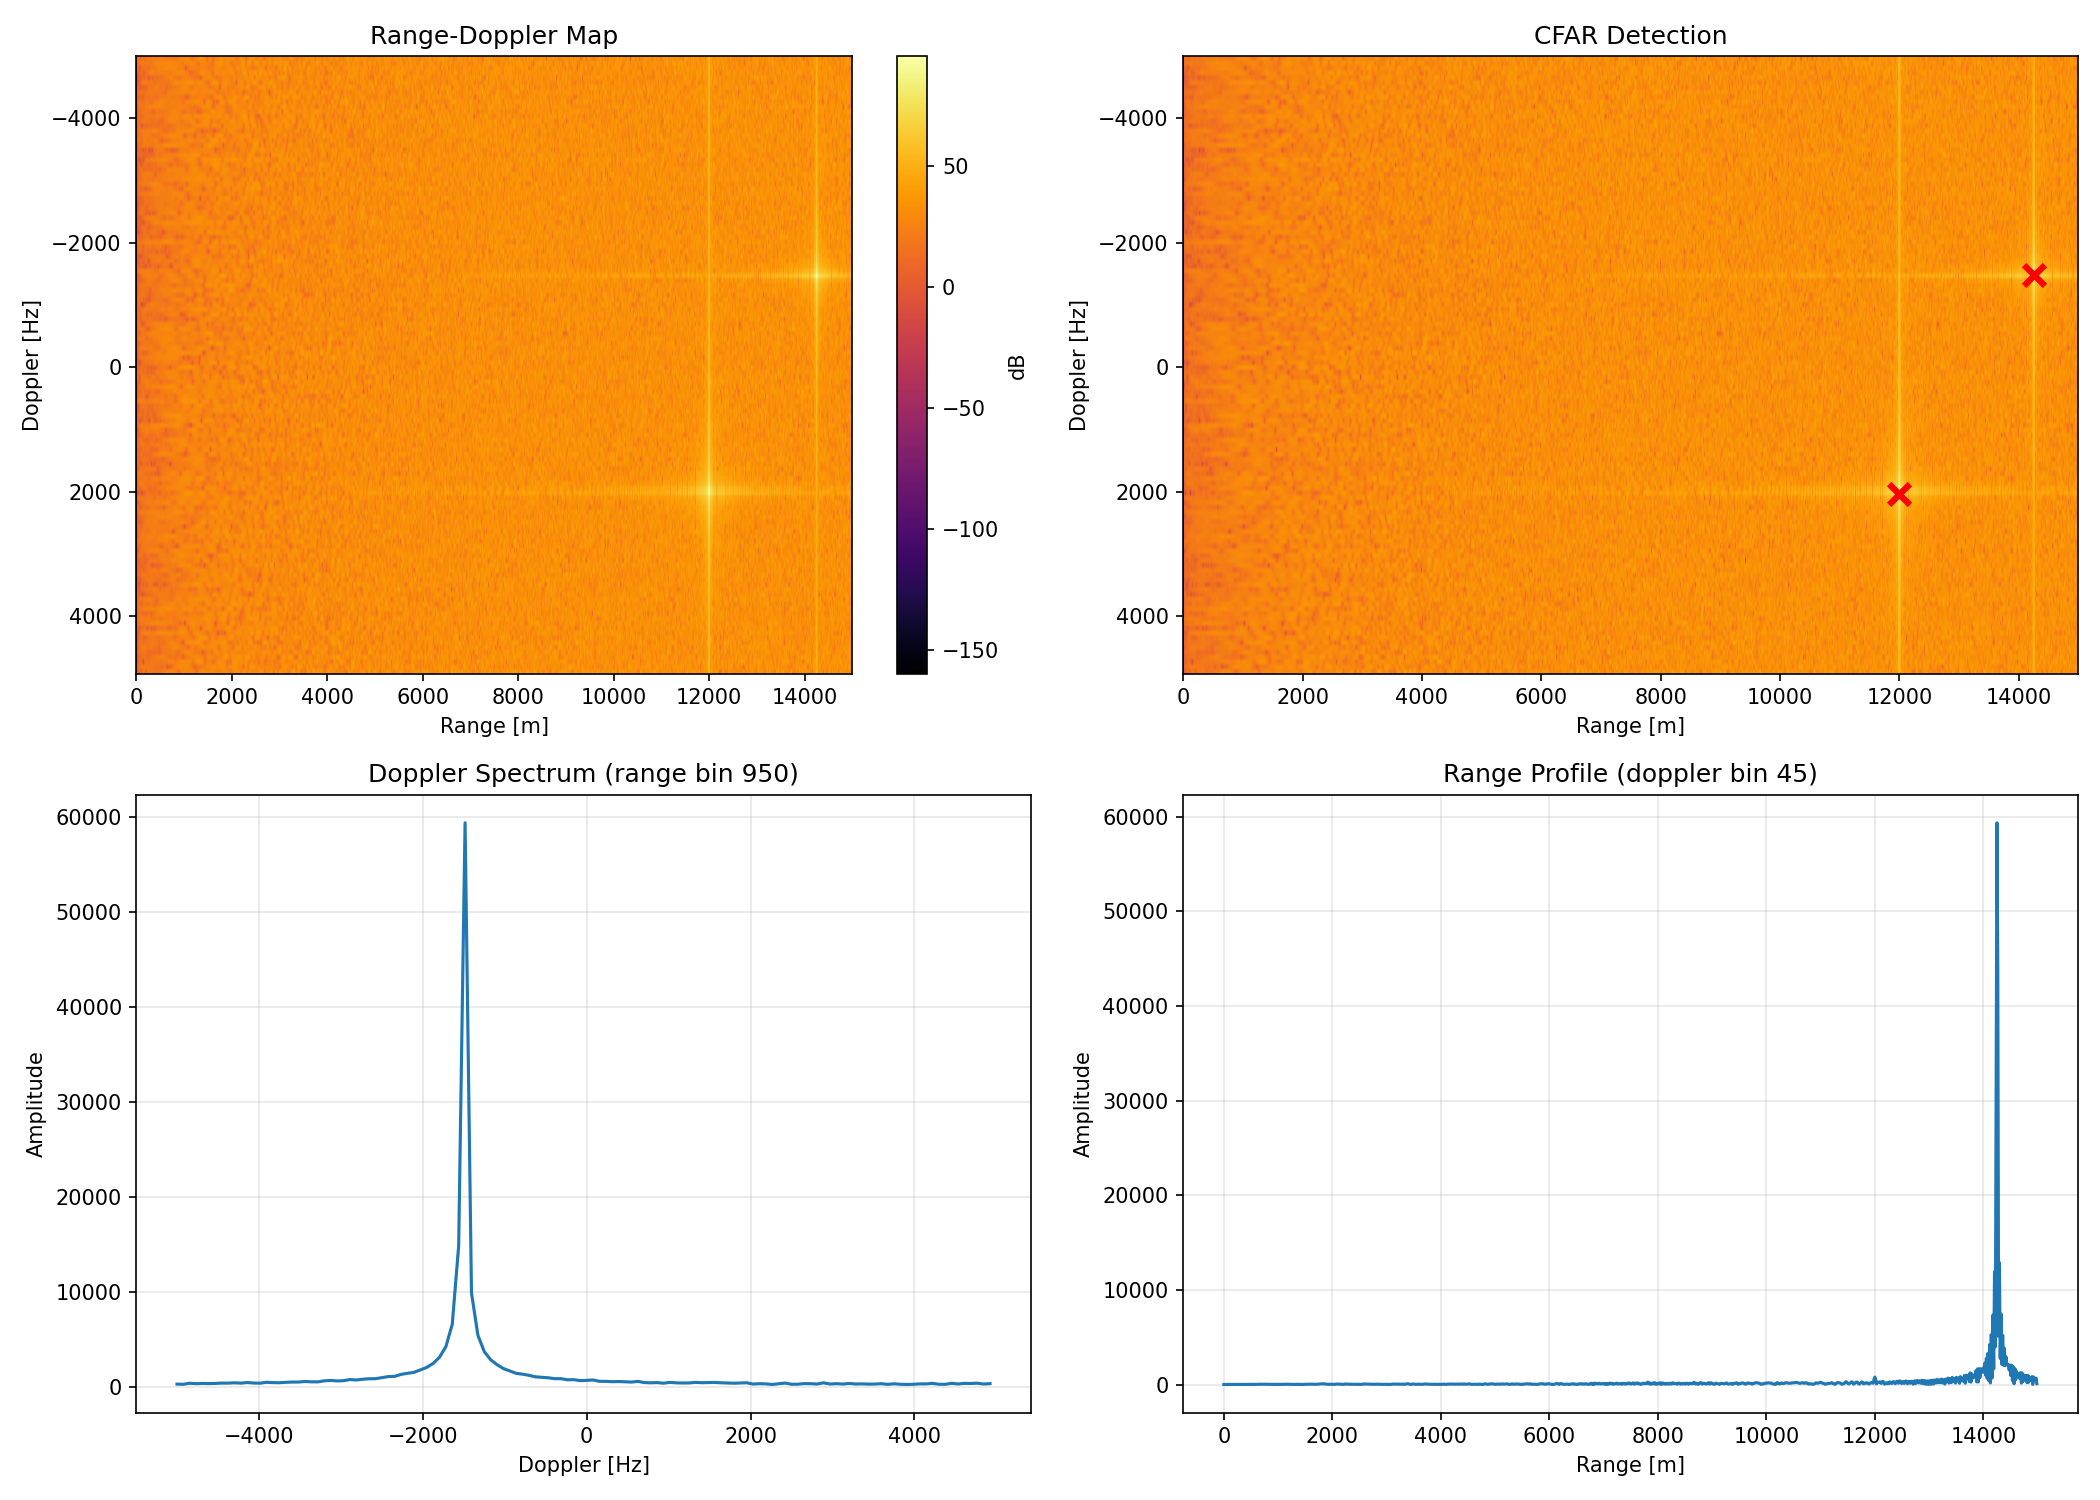
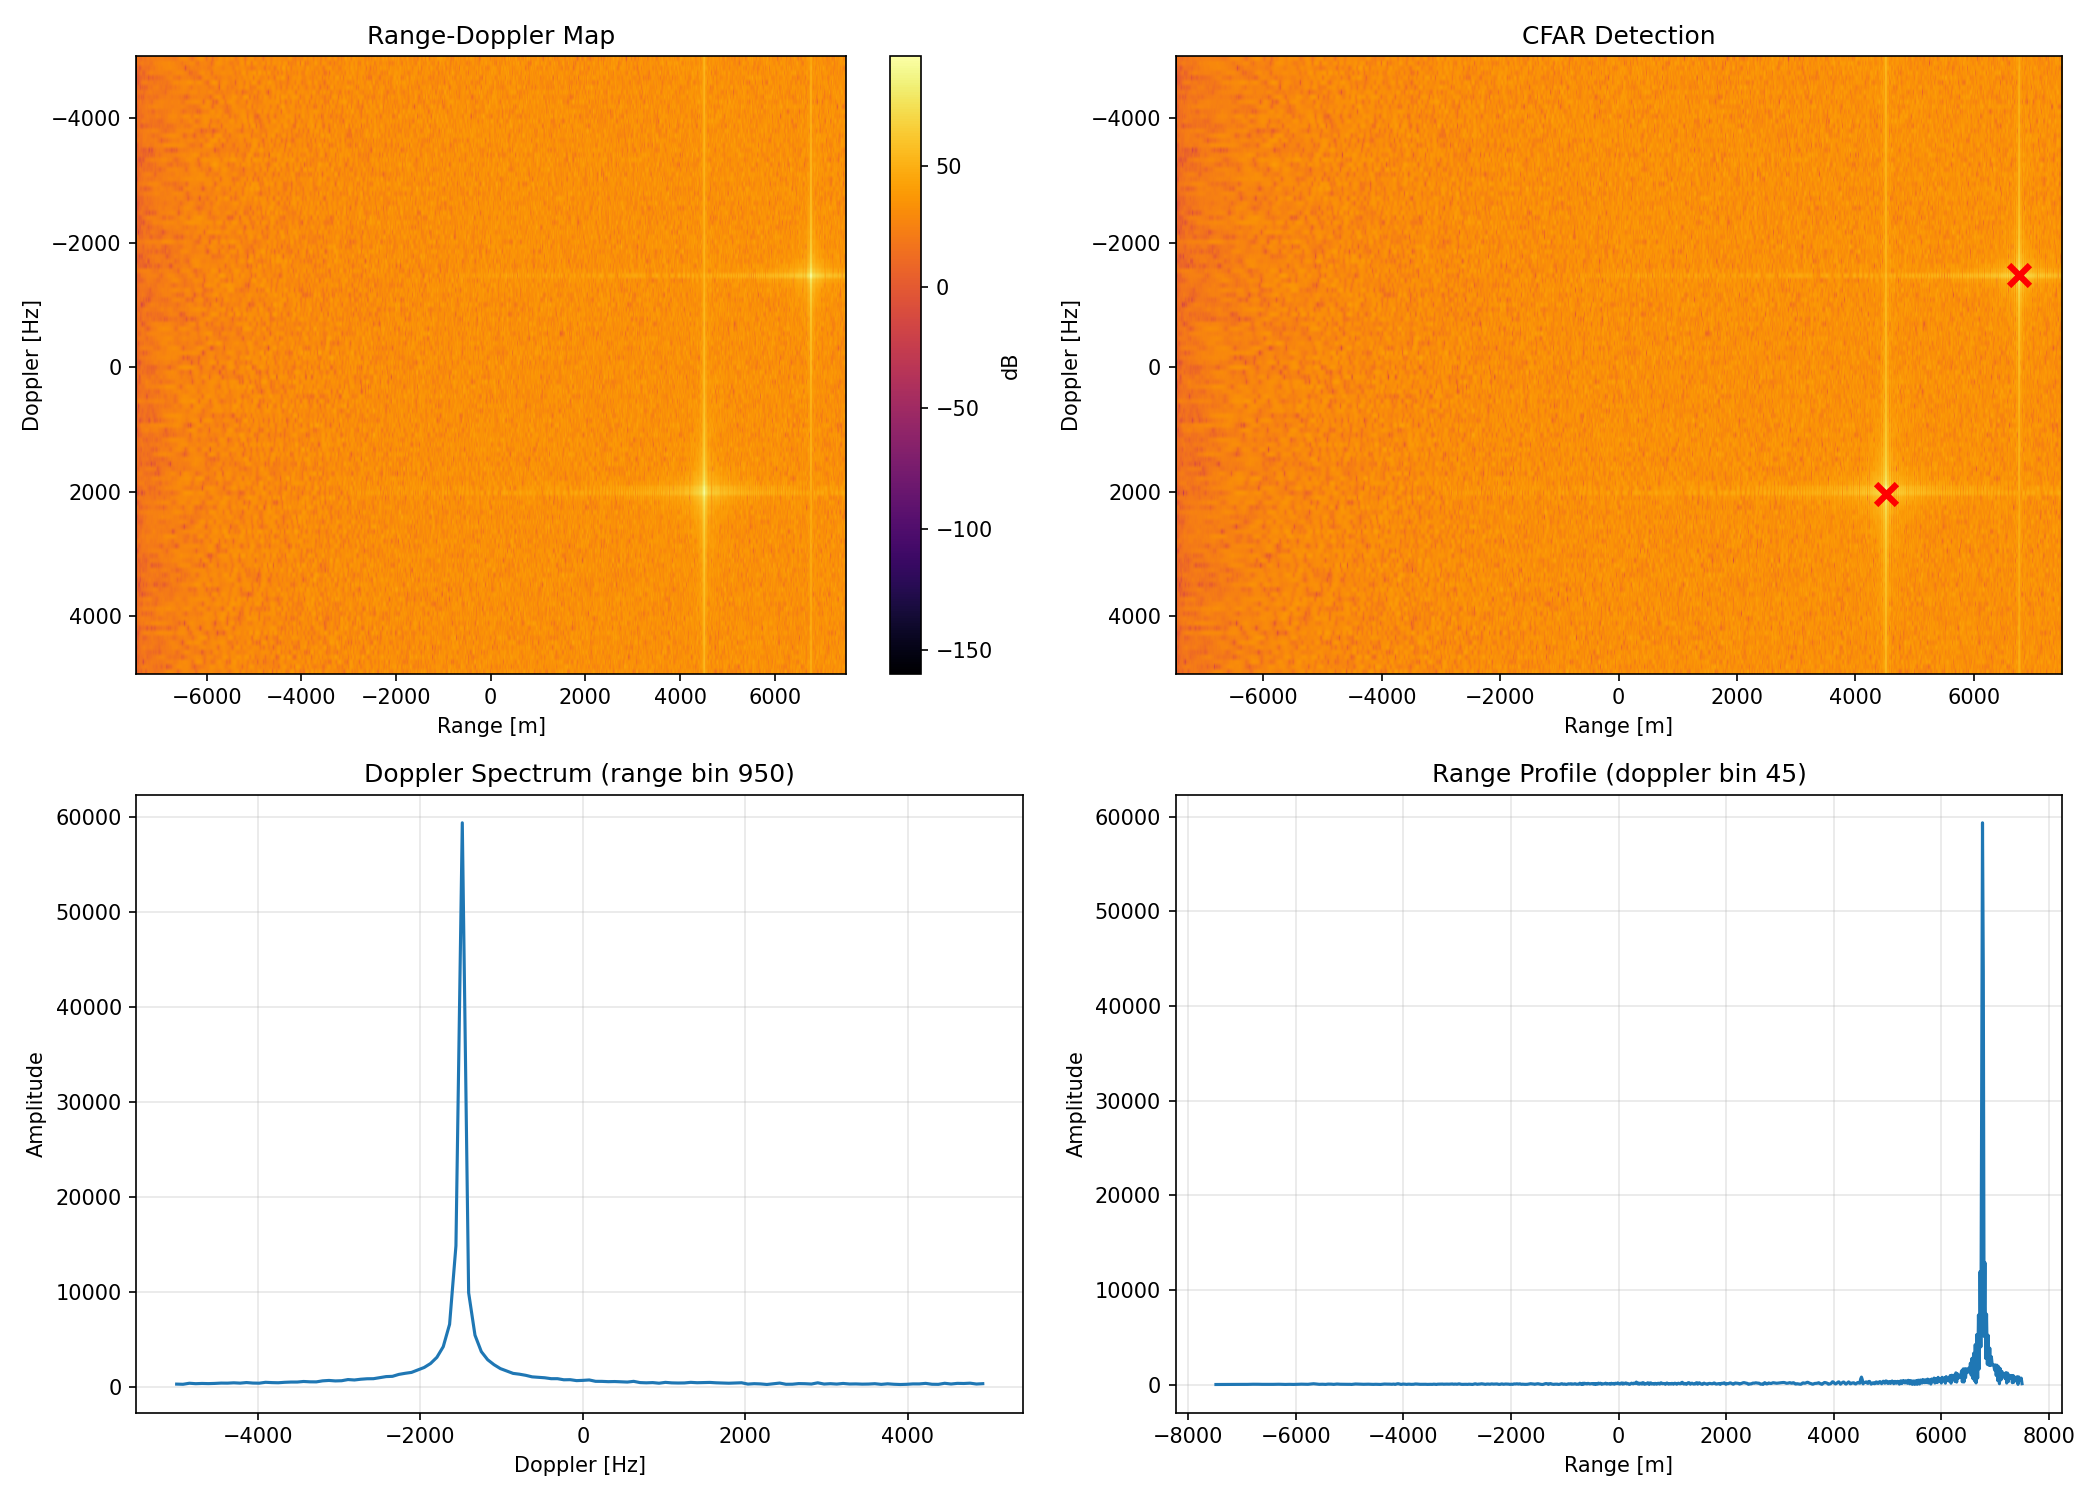
fix(demo): graceful CUDA init in radar_task1.cpp
- C++ demo: try/catch CUDA init, fallback to CPU-only
- Python demo: detects 2 targets correctly (range 4515m/6765m, doppler 2031/-1484 Hz)
- All 4 demos use correct range formula: (bin - PC_OFFSET) * range_per_bin
- 630/630 CPU tests pass

diff --git a/demos/radar_task1.cpp b/demos/radar_task1.cpp
@@ -340,7 +340,14 @@ static void save_plots(const Task1Result &result, const char *prefix) {
 }
 
 int main() {
-  ins::init({"cpu", "cuda"});
+  ins::init({"cpu"});
+  bool has_gpu = false;
+  try {
+    ins::init({"cuda"});
+    has_gpu = true;
+  } catch (...) {
+    printf("[提示] CUDA 不可用，仅运行 CPU 版本\n");
+  }
 
   separator("比赛任务1：雷达目标检测与多普勒分析");
 
@@ -375,7 +382,7 @@ int main() {
   save_plots(cpu, "task1_cpu");
 
   // GPU
-  if (gpu_available()) {
+  if (has_gpu) {
     separator("GPU 运行");
     set_device(GPUPlace(0));
     Task1Result gpu = run_task1(GPUPlace(0));